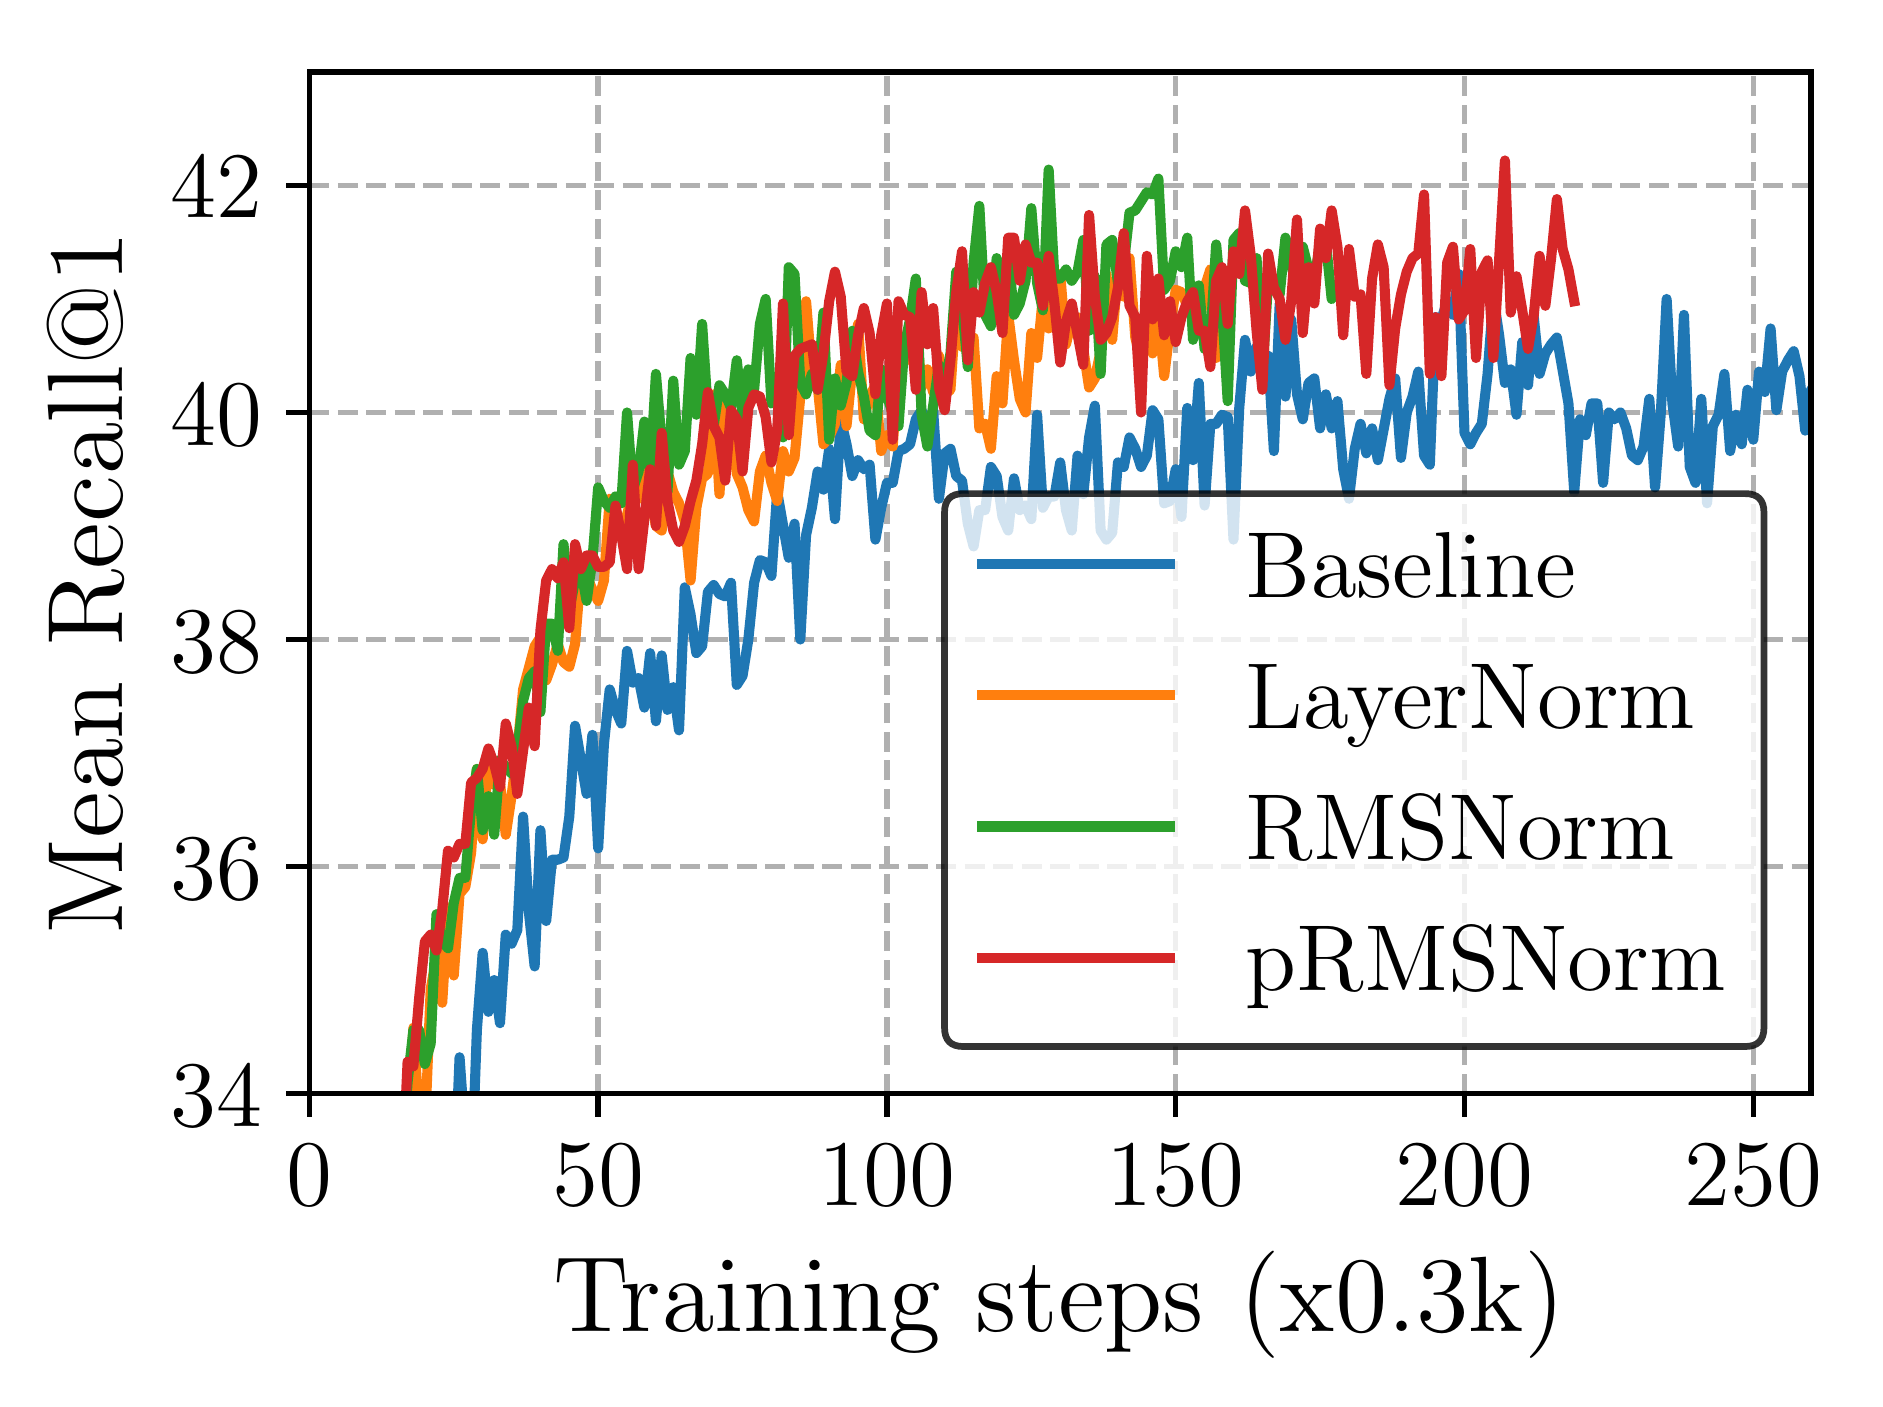
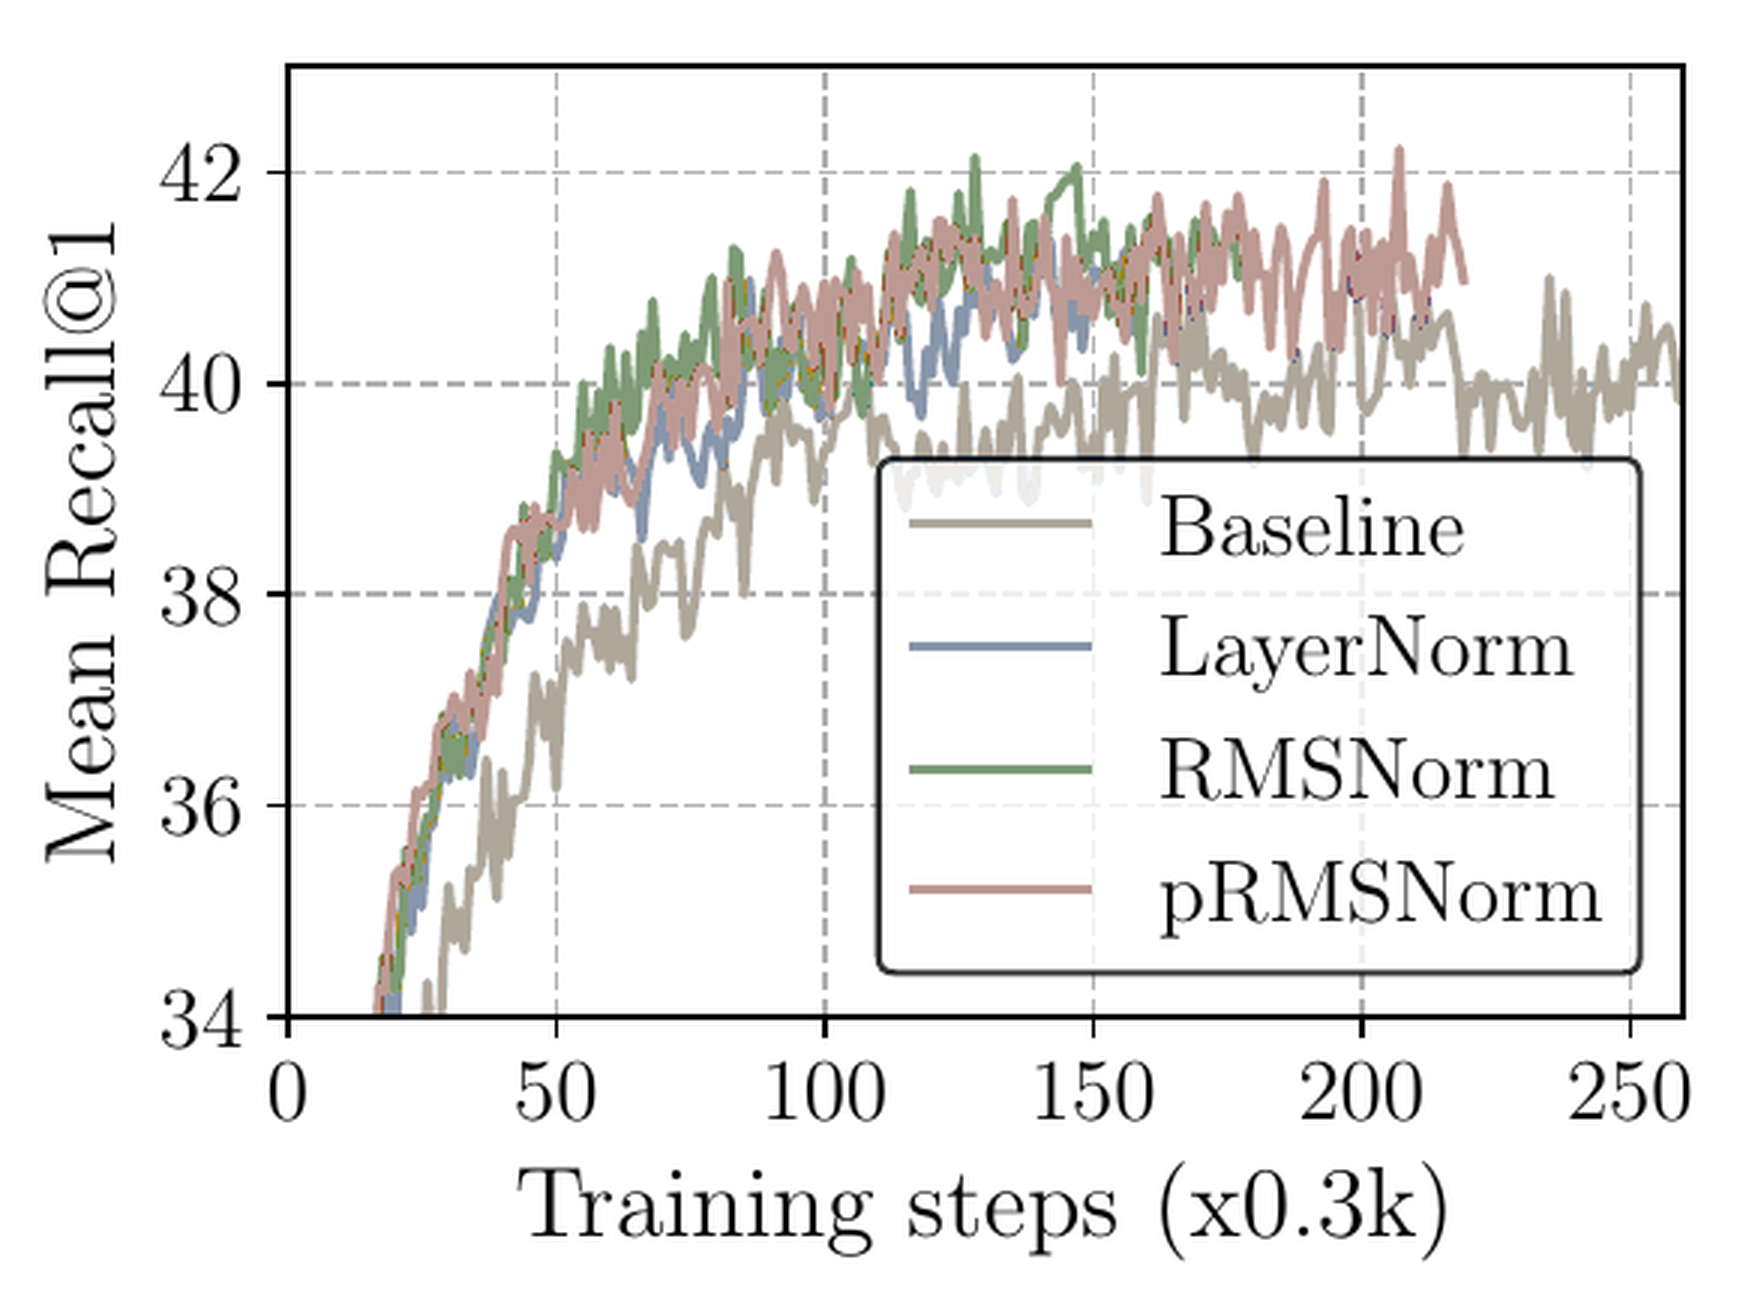
Add read time, colour-coded table of contents, Morandi paper figures
Read time is derived from prose word count and shown as a front-matter
byline. A [TOC] marker anywhere in a post expands into a contents list
built from its h2 headings, each with a cycling Morandi accent.

Reproduced paper figures are recoloured to the site palette so that
LayerNorm is always blue, RMSNorm always green, and an un-normalized
baseline always taupe, across both papers and the simulation. The
recolouring solves each pixel's opacity against white and re-emits it in
the new hue, so text, axes and gridlines are untouched and no data is
altered. Originals are committed under figures/originals/ so the script
can be re-run.

Claude-Session: https://claude.ai/code/session_01PKVwGHg9MBsMLRHsxk8Mdi

diff --git a/static/css/blog.css b/static/css/blog.css
@@ -172,6 +172,47 @@ table td {
 .article .figure .caption-label {
   font-weight: bold;
 }
+.article .toc {
+  border-top: 1px solid rgba(0, 0, 0, 0.2);
+  border-bottom: 1px solid rgba(0, 0, 0, 0.2);
+  padding: 18px 0 22px 0;
+  margin: 40px 0;
+}
+.article .toc .toc-head {
+  font-size: 9px;
+  text-transform: uppercase;
+  letter-spacing: 0.08em;
+  color: rgba(0, 0, 0, 0.5);
+  margin: 0 0 14px 0;
+}
+.article .toc ul {
+  list-style-type: none;
+  margin: 0;
+  padding: 0;
+  columns: 2;
+  column-gap: 26px;
+}
+.article .toc ul li {
+  border-left: 4px solid;
+  padding: 3px 0 3px 11px;
+  margin: 0 0 9px 0;
+  font-size: 13.5px;
+  line-height: 1.35em;
+  break-inside: avoid;
+}
+.article .toc ul li a {
+  text-decoration: none;
+  color: rgba(0, 0, 0, 0.78);
+}
+.article .toc ul li a:hover {
+  text-decoration: underline;
+  color: rgba(0, 0, 0, 0.5);
+}
+@media screen and (max-width: 700px) {
+  .article .toc ul {
+    columns: 1;
+  }
+}
 .article .figure-pair {
   border-top: 1px solid hsla(0, 0%, 0%, 0.2);
   border-bottom: 1px solid hsla(0, 0%, 0%, 0.2);

diff --git a/templates/post.html b/templates/post.html
@@ -8,6 +8,10 @@
                     <p>{{ date }}</p>
                 </div>
                 <div class='byline'>
+                    <h3>Read time</h3>
+                    <p>{{ read_time }}</p>
+                </div>
+                <div class='byline'>
                     <h3>Tags</h3>
                     <p>{{ tags }}</p>
                 </div>

diff --git a/figures/recolor_paper_figs.py b/figures/recolor_paper_figs.py
@@ -1,0 +1,127 @@
+"""Recolour the reproduced paper figures into this site's Morandi palette.
+
+The originals live in figures/originals/ so this is reproducible from the repo.
+Only hue is changed: every pixel keeps its opacity against white, so line
+weights, antialiasing, text and axes are untouched. No data is altered.
+
+Each line-plot pixel is a blend of one pure series colour C with the white
+background:  p = 255 - a*(255 - C).  For each pixel we solve for `a` against
+every known source colour by least squares, keep the best fit if its residual
+is small, and re-emit the pixel with the replacement colour C':
+    p' = 255 - a*(255 - C')
+Pixels that fit nothing well (black text, grey gridlines) are left alone.
+
+Run:  python3 figures/recolor_paper_figs.py
+"""
+
+import os
+
+import numpy as np
+from PIL import Image
+
+HERE = os.path.dirname(os.path.abspath(__file__))
+SRC = os.path.join(HERE, 'originals')
+OUT = os.path.join(os.path.dirname(HERE), 'static', 'images')
+
+# The site palette. Semantics are kept consistent across every figure:
+# LayerNorm is dusty blue, RMSNorm is sage green, an un-normalized baseline is
+# taupe. These match figures/norm_comparison.py.
+LN = '#8896AB'
+RMS = '#7E9B76'
+BASE = '#B0A79B'
+PARTIAL = '#BC9A93'
+
+
+def rgb(h):
+    return np.array([int(h[i:i + 2], 16) for i in (1, 3, 5)], dtype=float)
+
+
+def recolour(img, mapping, tol=45.0):
+    """mapping: list of (source_hex, target_hex)."""
+    a = np.asarray(img.convert('RGB')).astype(float)
+    h, w, _ = a.shape
+    flat = a.reshape(-1, 3)
+    ink = 255.0 - flat                           # opacity-weighted colour
+    # Grey pixels (gridlines, axes, text) can accidentally fit a colour
+    # direction well enough to pass the residual test. Exclude them by hue.
+    chromatic = (flat.max(1) - flat.min(1)) > 22
+
+    best_res = np.full(len(ink), np.inf)
+    best_alpha = np.zeros(len(ink))
+    best_idx = np.full(len(ink), -1)
+
+    for k, (src, _dst) in enumerate(mapping):
+        d = 255.0 - rgb(src)                     # direction for this series
+        denom = float(d @ d)
+        alpha = (ink @ d) / denom
+        resid = np.linalg.norm(ink - alpha[:, None] * d[None, :], axis=1)
+        take = (resid < best_res) & (alpha > 0.04) & (alpha < 1.15) & chromatic
+        best_res[take] = resid[take]
+        best_alpha[take] = alpha[take]
+        best_idx[take] = k
+
+    out = ink.copy()
+    for k, (_src, dst) in enumerate(mapping):
+        sel = (best_idx == k) & (best_res < tol)
+        if not sel.any():
+            continue
+        out[sel] = best_alpha[sel][:, None] * (255.0 - rgb(dst))[None, :]
+        print('      %s -> %s  (%d px)' % (_src, dst, sel.sum()))
+
+    return Image.fromarray(
+        np.clip(255.0 - out, 0, 255).reshape(h, w, 3).astype(np.uint8))
+
+
+def flatten(path):
+    im = Image.open(path).convert('RGBA')
+    bg = Image.new('RGBA', im.size, (255, 255, 255, 255))
+    return Image.alpha_composite(bg, im).convert('RGB')
+
+
+def trim(img, pad=12):
+    a = np.asarray(img).astype(int)
+    ys, xs = np.where(a.sum(2) < 720)
+    return img.crop((max(xs.min() - pad, 0), max(ys.min() - pad, 0),
+                     min(xs.max() + pad + 1, img.width),
+                     min(ys.max() + pad + 1, img.height)))
+
+
+os.makedirs(OUT, exist_ok=True)
+
+# -- Ba, Kiros & Hinton (2016), Figure 1(a) ---------------------------------
+print('ba2016-fig1a-recall1.png')
+im = flatten(os.path.join(SRC, 'ba2016-fig1a-recall1.png'))
+im = recolour(im, [('#0000ff', LN),        # Order-Embedding + LN
+                   ('#008000', BASE)])     # Order-Embedding (no norm)
+im.resize((im.width * 2, im.height * 2), Image.LANCZOS).save(
+    os.path.join(OUT, 'layernorm-2016-recall1.png'))
+
+# -- Zhang & Sennrich (2019), Figure 2(a) -----------------------------------
+print('zhang2019-fig2a-recall1.png')
+im = flatten(os.path.join(SRC, 'zhang2019-fig2a-recall1.png'))
+im = recolour(im, [('#1f77b4', BASE),      # Baseline
+                   ('#ff7f0e', LN),        # LayerNorm
+                   ('#2ca02c', RMS),       # RMSNorm
+                   ('#d62728', PARTIAL)])  # pRMSNorm
+im.resize((im.width * 3, im.height * 3), Image.LANCZOS).save(
+    os.path.join(OUT, 'rmsnorm-2019-recall1.png'))
+
+# -- Xiong et al. (2020), Figure 1, split into its two panels ---------------
+print('xiong2020-fig1-preln-postln.png')
+im = flatten(os.path.join(SRC, 'xiong2020-fig1-preln-postln.png'))
+im = recolour(im, [('#a9d18e', '#A3BC97'),   # Layer Norm boxes -> sage
+                   ('#8faadc', '#A9B7CB'),   # FFN box -> dusty blue
+                   ('#ffd966', '#DFCCA3'),   # Attention box -> sand
+                   ('#2f528f', '#6E7C93')],  # box outlines
+             tol=60)
+panels = {'transformer-postln-block.png': im.crop((0, 0, 303, im.height)),
+          'transformer-preln-block.png': im.crop((303, 0, im.width, im.height))}
+height = max(trim(p).height for p in panels.values())
+for name, panel in panels.items():
+    p = trim(panel)
+    canvas = Image.new('RGB', (p.width, height), 'white')
+    canvas.paste(p, (0, 0))
+    canvas.resize((p.width * 3, height * 3), Image.LANCZOS).save(
+        os.path.join(OUT, name))
+
+print('done ->', OUT)

diff --git a/build.py b/build.py
@@ -350,6 +350,40 @@ def highlight_code(code, lang):
     return "<div class='highlight'><pre>%s</pre></div>" % html.escape(code)
 
 
+# Muted Morandi tones, cycled across the table of contents.
+TOC_COLOURS = ['#A3B1A1', '#A9B5C4', '#C7B8A8', '#C9AFA6',
+               '#B3AEC1', '#BFC0A8', '#C4A88F', '#9FB0AB']
+
+WORDS_PER_MINUTE = 220
+
+
+def reading_time(body):
+    """Whole minutes, from prose only. Code, math and raw HTML are skipped."""
+    text = re.sub(r'```.*?```', '', body, flags=re.DOTALL)
+    text = re.sub(r'\$\$.*?\$\$', '', text, flags=re.DOTALL)
+    text = re.sub(r'<[^>]+>', '', text)
+    return max(1, round(len(text.split()) / WORDS_PER_MINUTE))
+
+
+def insert_toc(content):
+    """Replace a [TOC] marker with a contents list built from the h2s."""
+    marker = '<p>[TOC]</p>'
+    if marker not in content:
+        return content
+    items = []
+    for n, m in enumerate(re.finditer(r"<h2 id='([^']*)'>(.*?)</h2>", content)):
+        label = re.sub(r'<[^>]+>', '', m.group(2)).strip()
+        items.append(
+            "        <li style='border-left-color: %s'>"
+            "<a href='#%s'>%s</a></li>"
+            % (TOC_COLOURS[n % len(TOC_COLOURS)], m.group(1), label))
+    if not items:
+        return content.replace(marker, '')
+    toc = ("<nav class='toc'>\n    <p class='toc-head'>Contents</p>\n"
+           "    <ul>\n%s\n    </ul>\n</nav>" % '\n'.join(items))
+    return content.replace(marker, toc)
+
+
 def slugify(text):
     # Drop protected spans (code, math) so their stash index cannot leak into
     # the anchor as a stray number.
@@ -385,9 +419,12 @@ class Post:
         self.tags = [t.strip() for t in meta.get('tags', '').split(',')
                      if t.strip()]
 
+        self.read_minutes = reading_time(body)
+
         md = Markdown()
         self.content = md.convert(body)
         self.footnotes = md.footnotes_html()
+        self.content = insert_toc(self.content)
 
         self.url = '%s/blog/%s/%s/' % (config['base'],
                                        self.date.strftime('%Y/%m/%d'),
@@ -597,6 +634,7 @@ def build():
                       title=html.escape(post.title),
                       subtitle=html.escape(post.subtitle),
                       date=post.date_display,
+                      read_time='%d min read' % post.read_minutes,
                       tags=tags,
                       content=post.content,
                       footnotes=post.footnotes,

diff --git a/posts/2026-08-11-rmsnorm-vs-layernorm.md b/posts/2026-08-11-rmsnorm-vs-layernorm.md
@@ -20,6 +20,8 @@ subtract the mean.
 This post is about why that one deletion was worth making, and what it tells
 us about how progress in this field actually happens.
 
+[TOC]
+
 ## Where the Normalizer Lives
 
 Before the history, it is worth seeing where in the network any of this
@@ -62,7 +64,13 @@ is of the slot itself.
         for reasons to do with gradients rather than cost. Today's models made
         both.
         <br>
-        Figure 1, Xiong et al. (2020), split into its two panels.
+        Reproduced figures throughout this post are recoloured to the
+        palette used here, so that LayerNorm is always blue, RMSNorm always
+        green, and an un-normalized baseline always taupe. Only hue is
+        changed; no data is altered.
+        <br>
+        Figure 1, Xiong et al. (2020), split into its two panels and
+        recoloured.
     </div>
 </div>
 
@@ -293,11 +301,11 @@ years apart, on the same benchmark, with the same axes.
                 <span class='who'>2016 — the case for LayerNorm.</span>
                 <b>Order-Embedding + LN</b> (blue) climbs faster and settles
                 about a point higher than the un-normalized
-                <b>Order-Embedding</b> (green). This is the gain that made
+                <b>Order-Embedding</b> (taupe). This is the gain that made
                 LayerNorm standard.
             </div>
             <div class='source'>
-                Figure 1(a), Ba, Kiros &amp; Hinton (2016).
+                Figure 1(a), Ba, Kiros &amp; Hinton (2016), recoloured.
             </div>
         </div>
         <div class='panel'>
@@ -305,12 +313,12 @@ years apart, on the same benchmark, with the same axes.
                  alt='Mean Recall@1 versus training steps for baseline, LayerNorm, RMSNorm and pRMSNorm. The LayerNorm, RMSNorm and pRMSNorm curves lie on top of one another, all above the baseline.'>
             <div class='annot'>
                 <span class='who'>2019 — the case for RMSNorm.</span>
-                <b>RMSNorm</b> (green) and <b>pRMSNorm</b> (red) sit on top of
-                <b>LayerNorm</b> (orange), all clearly above <b>Baseline</b>
-                (blue). Deleting the mean subtraction cost nothing.
+                <b>RMSNorm</b> (green) and <b>pRMSNorm</b> (rose) sit on top of
+                <b>LayerNorm</b> (blue), all clearly above <b>Baseline</b>
+                (taupe). Deleting the mean subtraction cost nothing.
             </div>
             <div class='source'>
-                Figure 2(a), Zhang &amp; Sennrich (2019).
+                Figure 2(a), Zhang &amp; Sennrich (2019), recoloured.
             </div>
         </div>
     </div>

diff --git a/README.md b/README.md
@@ -106,6 +106,32 @@ Everything user-facing is in `site.json`:
 - `tags` — the master list. Order here is the order shown; only tags with at
   least one published post are displayed.
 
+## Table of contents and read time
+
+Put `[TOC]` on its own line anywhere in a post and it is replaced by a
+contents list built from that post's `##` headings, each with a cycling
+Morandi accent colour. Anchors come from the heading text, so renaming a
+heading changes its link.
+
+Read time is computed automatically from prose word count at 220 words per
+minute — code blocks, display math, and raw HTML are excluded — and shown as a
+byline next to the date. Aim for 5–15 minutes; check a draft's length with:
+
+```sh
+python3 -c "import build; p=build.Post('posts/<file>.md', build.load_config()); print(p.read_minutes)"
+```
+
+## Figures
+
+`figures/norm_comparison.py` generates plots into `static/images/`.
+
+`figures/recolor_paper_figs.py` recolours reproduced paper figures into the
+site palette, reading from `figures/originals/` so it stays reproducible. It
+solves for each pixel's opacity against white and re-emits it in the
+replacement hue, which leaves text, axes, and gridlines untouched. If you
+reproduce a figure from a paper, say so in the caption and note the
+recolouring.
+
 ## Post icons
 
 Every row in a post listing is prefixed with an icon, Notion-style. The
